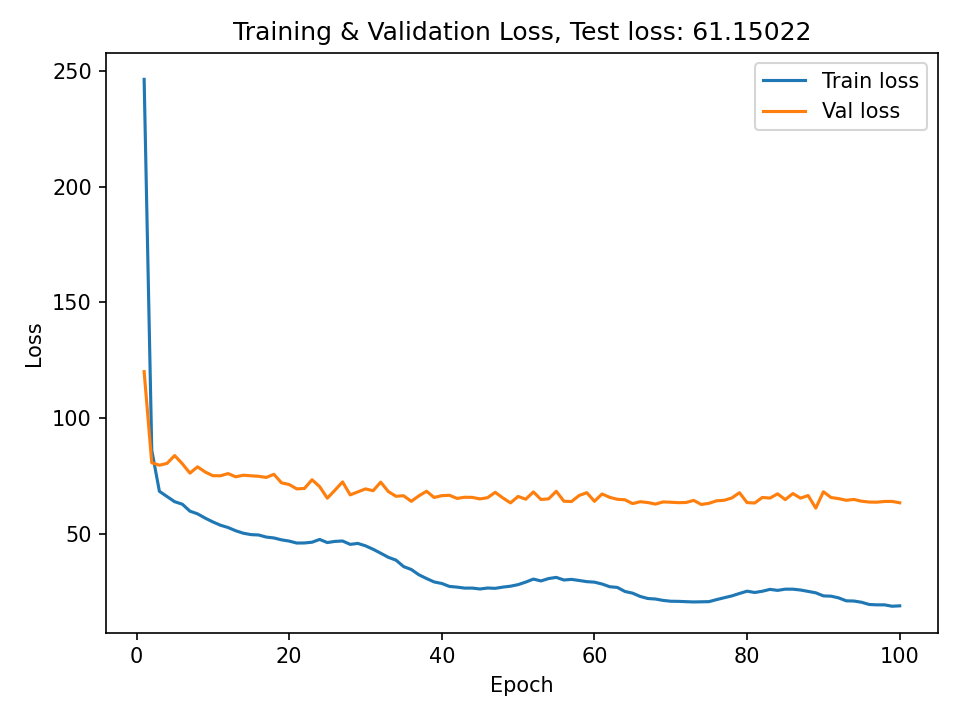
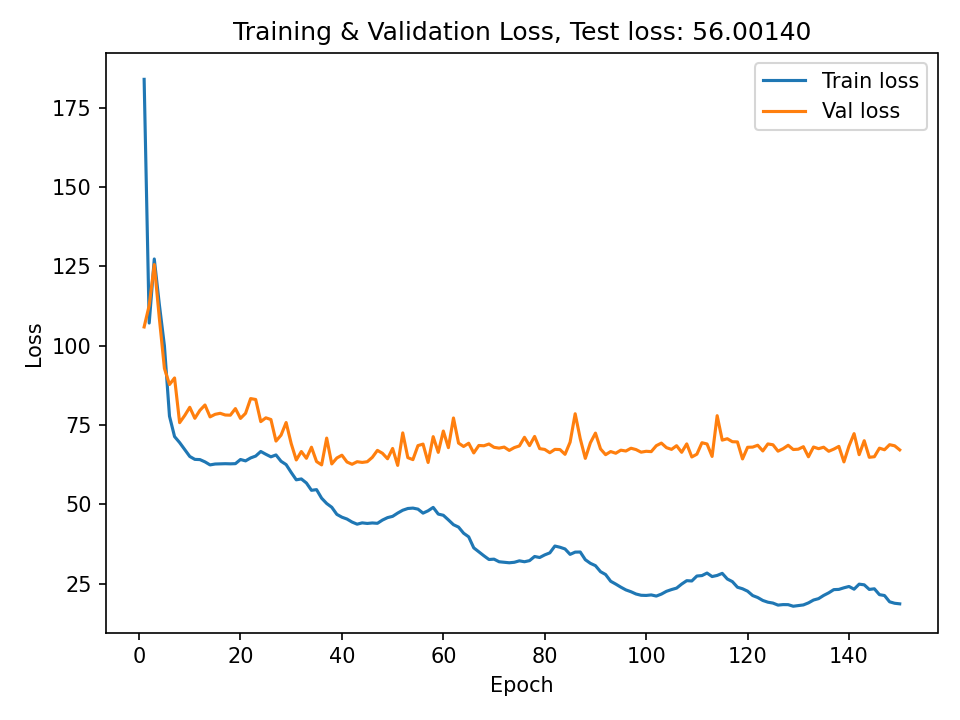
better runs

diff --git a/SusComp/DL/main.py b/SusComp/DL/main.py
@@ -291,12 +291,12 @@ def xai():
         hist_input_size=len(HIST_FEATURE_COLS)+6,  # +6 for time encodings
         fut_input_size=len(FUT_FEATURE_COLS)+6,
         horizon=24,
-        hidden_size=1024,
+        hidden_size=512,
         num_layers=2,
-        dropout=0.2,
+        dropout=0.3,
         bidirectional=False,
-        head_hidden_size=1024,
-        head_dropout=0.2,
+        head_hidden_size=512,
+        head_dropout=0.3,
         use_layernorm=True,
     )
 
